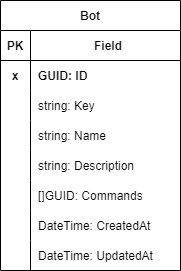
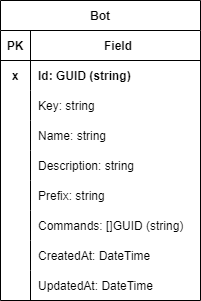
Actualiza diseño base de datos

Changed region(s): [[0.0, 0.0, 1.0, 1.0]]

diff --git a/md/diseño/base-datos.md b/md/diseño/base-datos.md
@@ -1,15 +1,26 @@
 # Base de datos
 
-[Completar]
+En esta sección se definen las diferentes colecciones que se utilizan para almacenar los datos necesarios en Matroos.
 
 ## Colección "bots"
+
+Almacena los bots creados por los usuarios.
 
 ![database_architecture_bot](img/database_architecture_bot.png)
 
 ## Colección "commands"
 
+Almacena los comandos creados por los usuarios.
+
+Referencias de tipos:
+
+- [`CommandType`](./comandos.md#commandtype)
+- [`CommandMode`](./comandos.md#commandmode)
+
 ![database_architecture_command](img/database_architecture_command.png)
 
 ## Colección "logs"
+
+Almacena los mensajes de `log`. La estructura es definida por la librería `Serilog`.
 
 ![database_architecture_log](img/database_architecture_log.png)
